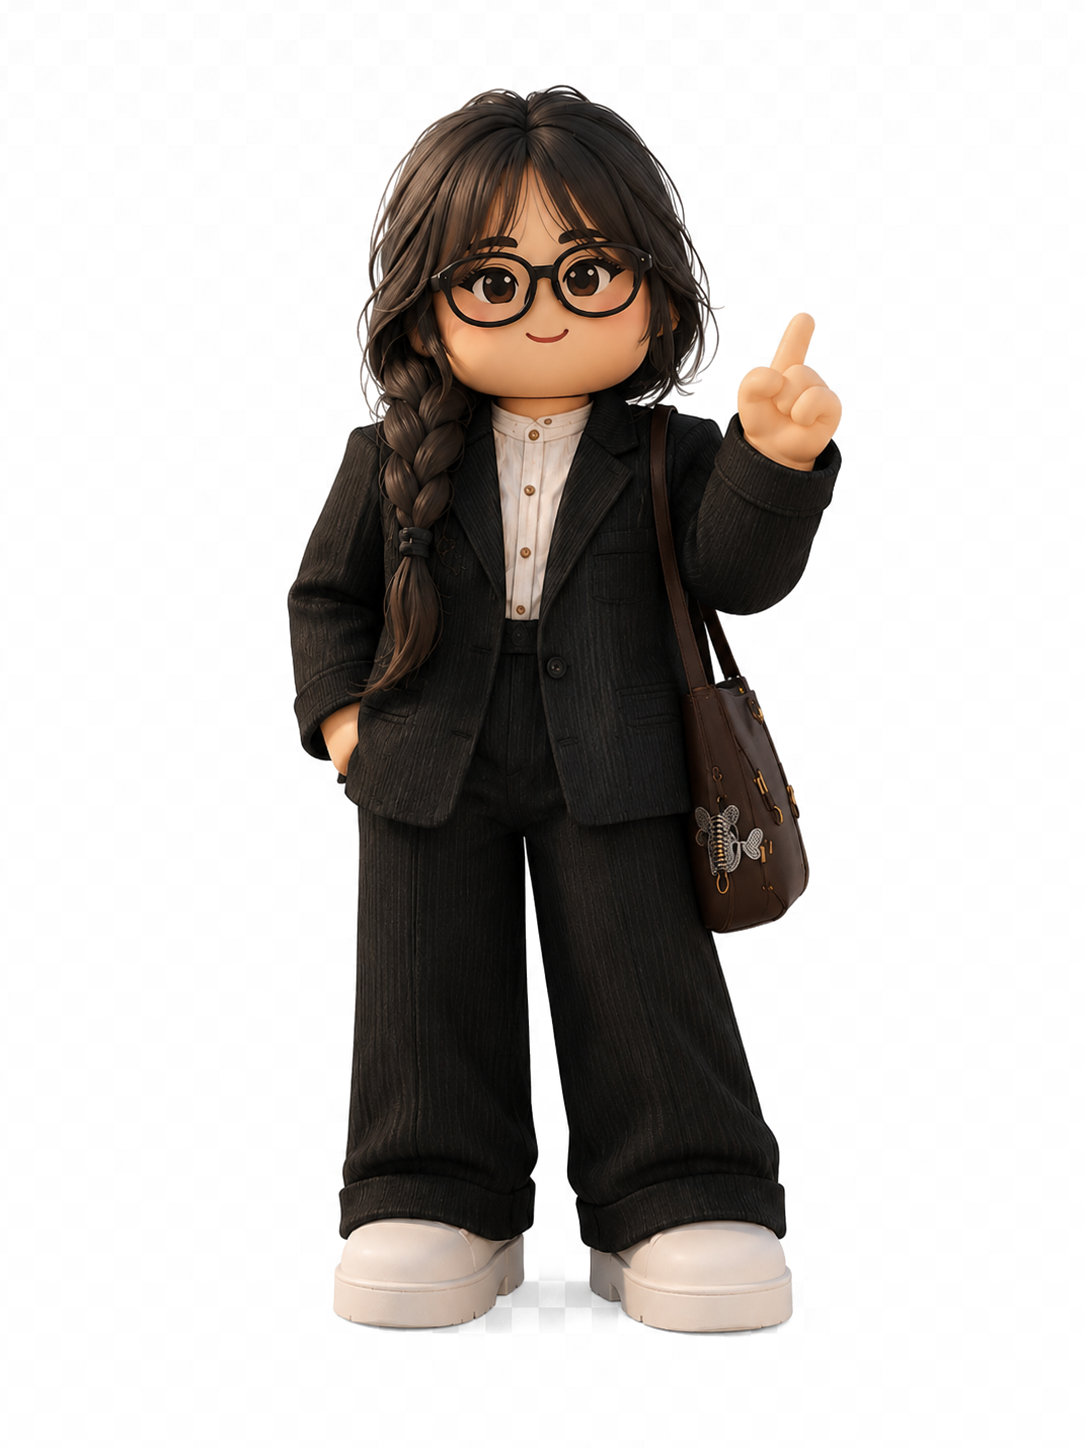
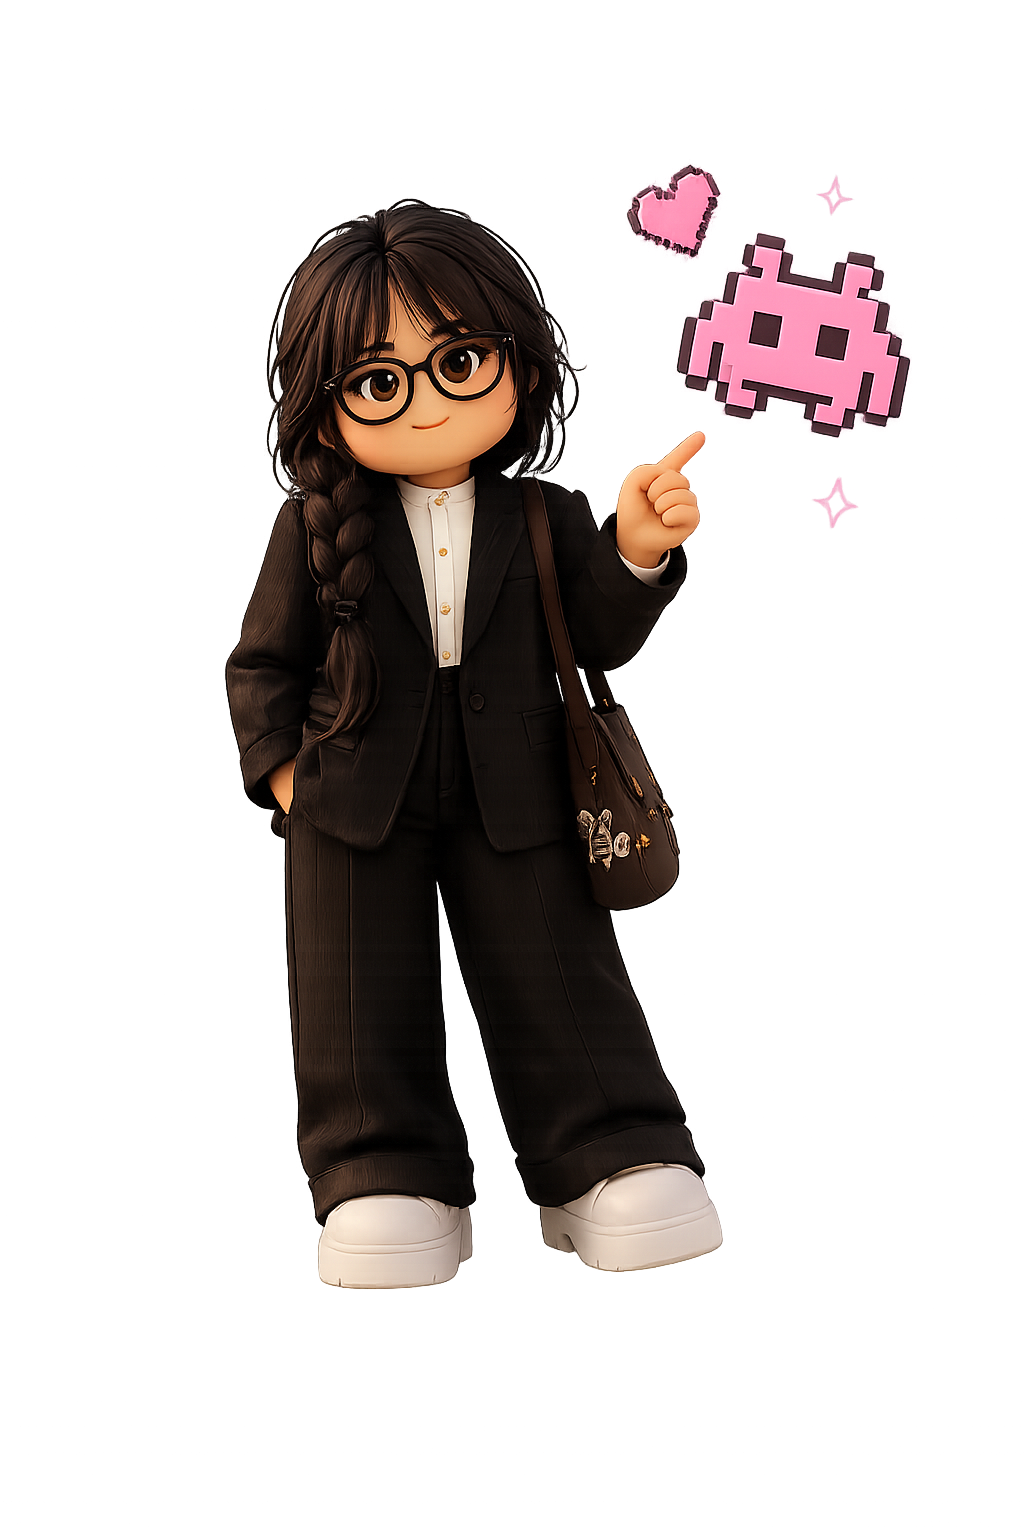
Revert desktop layout; replace about/contact mascots; fix blend modes

Changed region(s): [[0.2188, 0.0622, 0.9062, 0.9323]]

diff --git a/src/components/CharacterImage.jsx b/src/components/CharacterImage.jsx
@@ -6,17 +6,22 @@ const MASCOTS = {
   contact: '/mascot-heart.PNG',
 }
 
-/**
- * variant: 'hero' | 'about' | 'alien' | 'laptop' | 'contact'
- * Pass Tailwind height class via className, e.g. className="h-64"
- */
+// multiply hides light/gray PNG backgrounds; dark-bg images use no blend
+const BLEND = {
+  hero:    'multiply',
+  about:   'normal',
+  alien:   'multiply',
+  laptop:  'multiply',
+  contact: 'normal',
+}
+
 export default function CharacterImage({ variant = 'hero', className = '' }) {
   return (
     <img
       src={MASCOTS[variant]}
       alt="Albina mascot"
       className={`w-auto block select-none pointer-events-none drop-shadow-lg ${className}`}
-      style={{ mixBlendMode: 'multiply' }}
+      style={{ mixBlendMode: BLEND[variant] }}
       draggable={false}
     />
   )
